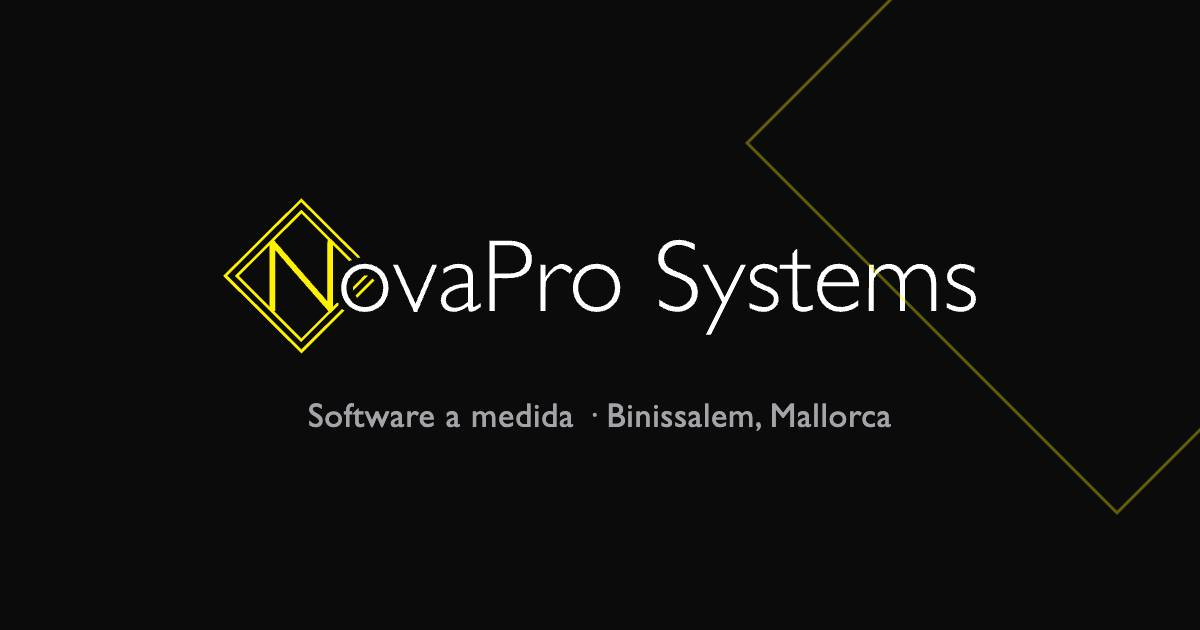
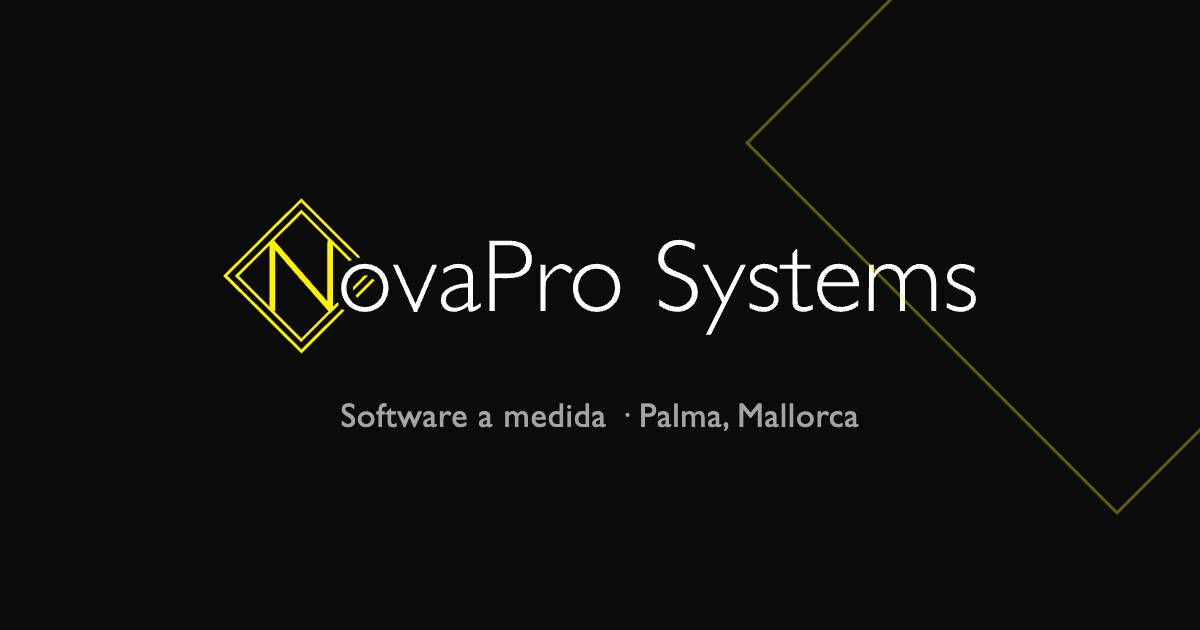
Cambia la sede a Palma

Changed region(s): [[0.2467, 0.6333, 0.74, 0.6937]]

diff --git a/de/index.html b/de/index.html
@@ -4,7 +4,7 @@
   <meta charset="utf-8">
   <meta name="viewport" content="width=device-width, initial-scale=1">
   <title>NovaPro Systems · Individualsoftware auf Mallorca</title>
-  <meta name="description" content="NovaPro Systems ist ein Beratungsunternehmen für Individualsoftware in Binissalem (Mallorca). Wir konzipieren und entwickeln Webanwendungen, Schnittstellen und KI-Lösungen für Unternehmen. Entwickler von Obradia.">
+  <meta name="description" content="NovaPro Systems ist ein Beratungsunternehmen für Individualsoftware in Palma (Mallorca). Wir konzipieren und entwickeln Webanwendungen, Schnittstellen und KI-Lösungen für Unternehmen. Entwickler von Obradia.">
   <meta name="theme-color" content="#0b0b0c">
   <meta name="color-scheme" content="dark">
   <script>try{var t=localStorage.getItem('tema');if(t==='light'||t==='dark')document.documentElement.dataset.theme=t}catch(e){}</script>
@@ -13,7 +13,7 @@
 
   <meta property="og:type" content="website">
   <meta property="og:title" content="NovaPro Systems · Individualsoftware">
-  <meta property="og:description" content="Webanwendungen, Schnittstellen und angewandte KI für Unternehmen. Aus Binissalem, Mallorca.">
+  <meta property="og:description" content="Webanwendungen, Schnittstellen und angewandte KI für Unternehmen. Aus Palma, Mallorca.">
   <meta property="og:image" content="https://novaprosystems.es/assets/img/og.jpg">
   <meta property="og:url" content="https://novaprosystems.es/de/">
   <meta property="og:locale" content="de_DE">
@@ -39,7 +39,7 @@
     "email": "novaprosystems@gmail.com",
     "url": "https://novaprosystems.es/",
     "logo": "https://novaprosystems.es/assets/img/icon-512.png",
-    "address": { "@type": "PostalAddress", "addressLocality": "Binissalem", "addressRegion": "Illes Balears", "addressCountry": "ES" },
+    "address": { "@type": "PostalAddress", "addressLocality": "Palma", "addressRegion": "Illes Balears", "addressCountry": "ES" },
     "sameAs": ["https://www.linkedin.com/company/novapro-systems"]
   }
   </script>
@@ -204,7 +204,7 @@
         <ul class="contact-list">
           <li>
             <svg class="ico" viewBox="0 0 24 24" aria-hidden="true"><path d="M12 21s-7-6.2-7-11.5A7 7 0 0112 2.5a7 7 0 017 7C19 14.8 12 21 12 21z"/><circle cx="12" cy="9.5" r="2.5"/></svg>
-            <div><strong>Adresse</strong><span>Binissalem, Balearen, Spanien</span></div>
+            <div><strong>Adresse</strong><span>Palma, Balearen, Spanien</span></div>
           </li>
           <li>
             <svg class="ico" viewBox="0 0 24 24" aria-hidden="true"><rect x="3" y="5" width="18" height="14" rx="2"/><path d="M3 7l9 6 9-6"/></svg>
@@ -223,7 +223,7 @@
     <div class="wrap foot-in">
       <img class="logo-dark" src="/assets/img/logo.svg" alt="NovaPro Systems" width="150" height="32" loading="lazy">
       <img class="logo-light" src="/assets/img/logo-negro.svg" alt="NovaPro Systems" width="150" height="32" loading="lazy">
-      <p>© <span id="year">2026</span> NovaPro Systems · Binissalem, Balearen, Spanien</p>
+      <p>© <span id="year">2026</span> NovaPro Systems · Palma, Balearen, Spanien</p>
       <a href="https://www.linkedin.com/company/novapro-systems" target="_blank" rel="noopener" aria-label="NovaPro Systems auf LinkedIn">LinkedIn</a>
     </div>
   </footer>

diff --git a/en/index.html b/en/index.html
@@ -4,7 +4,7 @@
   <meta charset="utf-8">
   <meta name="viewport" content="width=device-width, initial-scale=1">
   <title>NovaPro Systems · Custom software in Mallorca</title>
-  <meta name="description" content="NovaPro Systems is a custom software consultancy based in Binissalem, Mallorca. We design and build web applications, integrations and AI solutions for businesses. Makers of Obradia.">
+  <meta name="description" content="NovaPro Systems is a custom software consultancy based in Palma, Mallorca. We design and build web applications, integrations and AI solutions for businesses. Makers of Obradia.">
   <meta name="theme-color" content="#0b0b0c">
   <meta name="color-scheme" content="dark">
   <script>try{var t=localStorage.getItem('tema');if(t==='light'||t==='dark')document.documentElement.dataset.theme=t}catch(e){}</script>
@@ -13,7 +13,7 @@
 
   <meta property="og:type" content="website">
   <meta property="og:title" content="NovaPro Systems · Custom software">
-  <meta property="og:description" content="Web applications, integrations and applied AI for businesses. From Binissalem, Mallorca.">
+  <meta property="og:description" content="Web applications, integrations and applied AI for businesses. From Palma, Mallorca.">
   <meta property="og:image" content="https://novaprosystems.es/assets/img/og.jpg">
   <meta property="og:url" content="https://novaprosystems.es/en/">
   <meta property="og:locale" content="en_GB">
@@ -39,7 +39,7 @@
     "email": "novaprosystems@gmail.com",
     "url": "https://novaprosystems.es/",
     "logo": "https://novaprosystems.es/assets/img/icon-512.png",
-    "address": { "@type": "PostalAddress", "addressLocality": "Binissalem", "addressRegion": "Illes Balears", "addressCountry": "ES" },
+    "address": { "@type": "PostalAddress", "addressLocality": "Palma", "addressRegion": "Illes Balears", "addressCountry": "ES" },
     "sameAs": ["https://www.linkedin.com/company/novapro-systems"]
   }
   </script>
@@ -204,7 +204,7 @@
         <ul class="contact-list">
           <li>
             <svg class="ico" viewBox="0 0 24 24" aria-hidden="true"><path d="M12 21s-7-6.2-7-11.5A7 7 0 0112 2.5a7 7 0 017 7C19 14.8 12 21 12 21z"/><circle cx="12" cy="9.5" r="2.5"/></svg>
-            <div><strong>Address</strong><span>Binissalem, Balearic Islands, Spain</span></div>
+            <div><strong>Address</strong><span>Palma, Balearic Islands, Spain</span></div>
           </li>
           <li>
             <svg class="ico" viewBox="0 0 24 24" aria-hidden="true"><rect x="3" y="5" width="18" height="14" rx="2"/><path d="M3 7l9 6 9-6"/></svg>
@@ -223,7 +223,7 @@
     <div class="wrap foot-in">
       <img class="logo-dark" src="/assets/img/logo.svg" alt="NovaPro Systems" width="150" height="32" loading="lazy">
       <img class="logo-light" src="/assets/img/logo-negro.svg" alt="NovaPro Systems" width="150" height="32" loading="lazy">
-      <p>© <span id="year">2026</span> NovaPro Systems · Binissalem, Balearic Islands, Spain</p>
+      <p>© <span id="year">2026</span> NovaPro Systems · Palma, Balearic Islands, Spain</p>
       <a href="https://www.linkedin.com/company/novapro-systems" target="_blank" rel="noopener" aria-label="NovaPro Systems on LinkedIn">LinkedIn</a>
     </div>
   </footer>

diff --git a/index.html b/index.html
@@ -4,7 +4,7 @@
   <meta charset="utf-8">
   <meta name="viewport" content="width=device-width, initial-scale=1">
   <title>NovaPro Systems · Software a medida en Mallorca</title>
-  <meta name="description" content="NovaPro Systems es una consultora de software a medida en Binissalem (Mallorca). Diseñamos y desarrollamos aplicaciones web, integraciones y soluciones con IA para empresas. Creadores de Obradia.">
+  <meta name="description" content="NovaPro Systems es una consultora de software a medida en Palma (Mallorca). Diseñamos y desarrollamos aplicaciones web, integraciones y soluciones con IA para empresas. Creadores de Obradia.">
   <meta name="theme-color" content="#0b0b0c">
   <meta name="color-scheme" content="dark">
   <script>try{var t=localStorage.getItem('tema');if(t==='light'||t==='dark')document.documentElement.dataset.theme=t}catch(e){}</script>
@@ -13,7 +13,7 @@
 
   <meta property="og:type" content="website">
   <meta property="og:title" content="NovaPro Systems · Software a medida">
-  <meta property="og:description" content="Aplicaciones web, integraciones e IA aplicada para empresas. Desde Binissalem, Mallorca.">
+  <meta property="og:description" content="Aplicaciones web, integraciones e IA aplicada para empresas. Desde Palma, Mallorca.">
   <meta property="og:image" content="https://novaprosystems.es/assets/img/og.jpg">
   <meta property="og:url" content="https://novaprosystems.es/">
   <meta property="og:locale" content="es_ES">
@@ -39,7 +39,7 @@
     "email": "novaprosystems@gmail.com",
     "url": "https://novaprosystems.es/",
     "logo": "https://novaprosystems.es/assets/img/icon-512.png",
-    "address": { "@type": "PostalAddress", "addressLocality": "Binissalem", "addressRegion": "Illes Balears", "addressCountry": "ES" },
+    "address": { "@type": "PostalAddress", "addressLocality": "Palma", "addressRegion": "Illes Balears", "addressCountry": "ES" },
     "sameAs": ["https://www.linkedin.com/company/novapro-systems"]
   }
   </script>
@@ -204,7 +204,7 @@
         <ul class="contact-list">
           <li>
             <svg class="ico" viewBox="0 0 24 24" aria-hidden="true"><path d="M12 21s-7-6.2-7-11.5A7 7 0 0112 2.5a7 7 0 017 7C19 14.8 12 21 12 21z"/><circle cx="12" cy="9.5" r="2.5"/></svg>
-            <div><strong>Dirección</strong><span>Binissalem, Illes Balears</span></div>
+            <div><strong>Dirección</strong><span>Palma, Illes Balears</span></div>
           </li>
           <li>
             <svg class="ico" viewBox="0 0 24 24" aria-hidden="true"><rect x="3" y="5" width="18" height="14" rx="2"/><path d="M3 7l9 6 9-6"/></svg>
@@ -223,7 +223,7 @@
     <div class="wrap foot-in">
       <img class="logo-dark" src="/assets/img/logo.svg" alt="NovaPro Systems" width="150" height="32" loading="lazy">
       <img class="logo-light" src="/assets/img/logo-negro.svg" alt="NovaPro Systems" width="150" height="32" loading="lazy">
-      <p>© <span id="year">2026</span> NovaPro Systems · Binissalem, Illes Balears</p>
+      <p>© <span id="year">2026</span> NovaPro Systems · Palma, Illes Balears</p>
       <a href="https://www.linkedin.com/company/novapro-systems" target="_blank" rel="noopener" aria-label="NovaPro Systems en LinkedIn">LinkedIn</a>
     </div>
   </footer>
